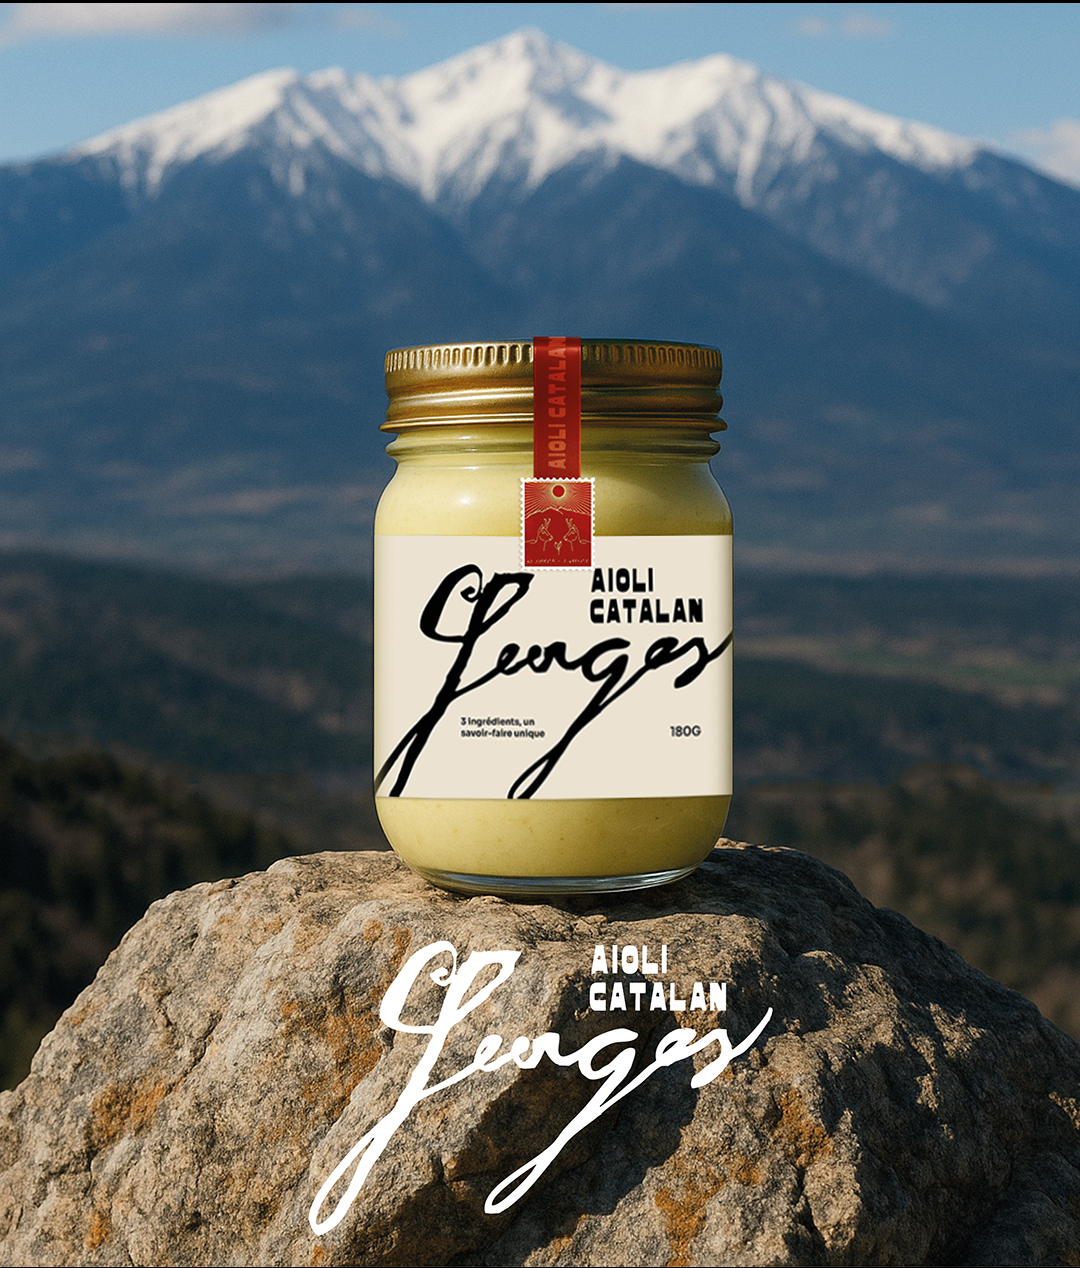
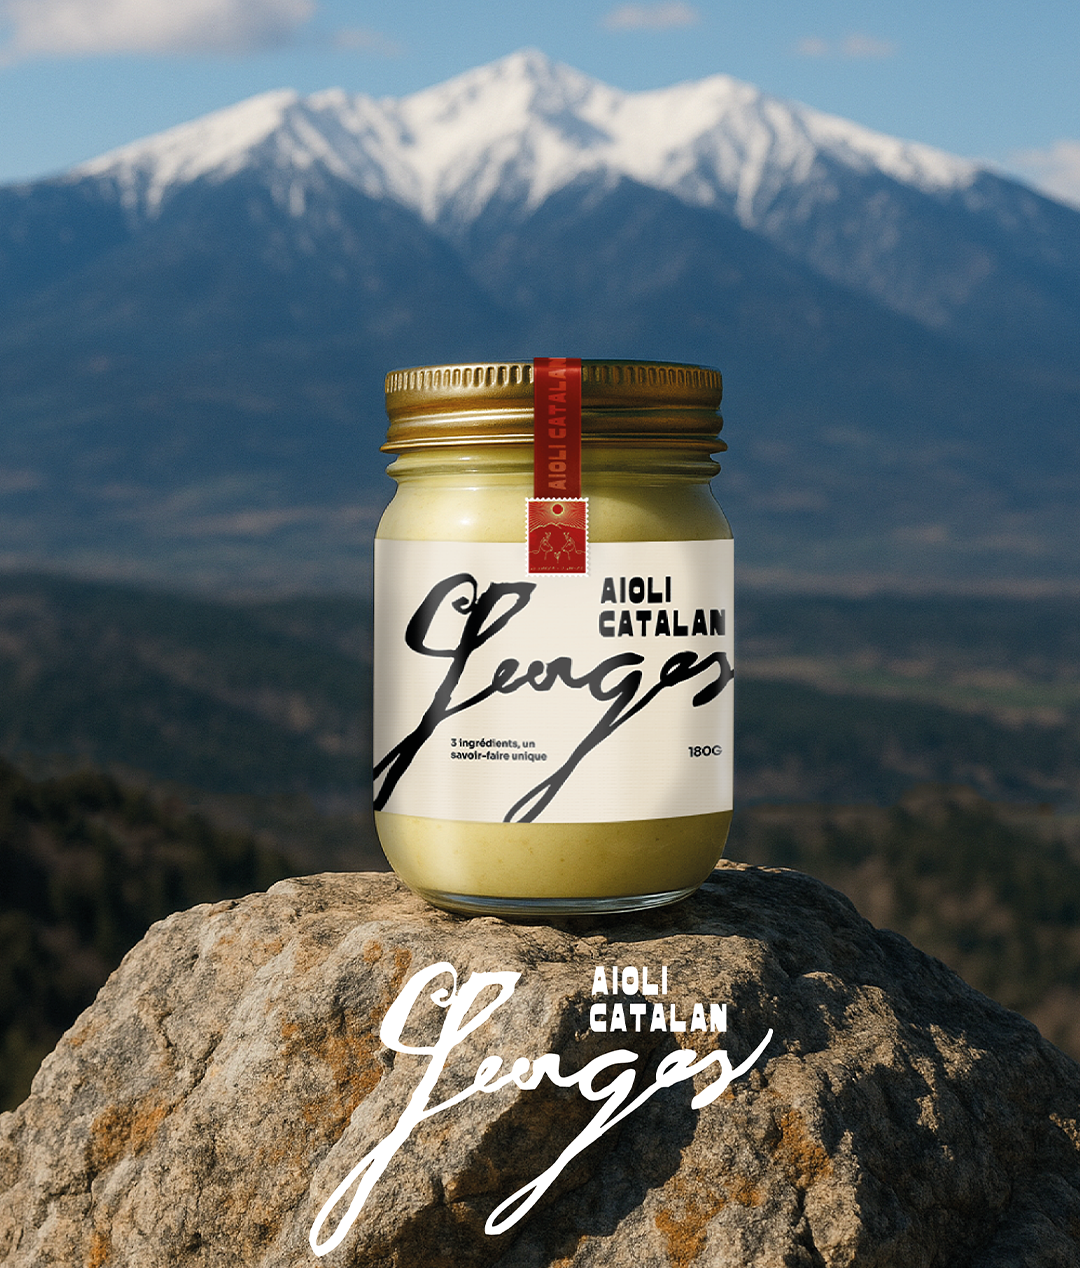
txts

diff --git a/app/projet/[id]/page.tsx b/app/projet/[id]/page.tsx
@@ -99,7 +99,7 @@ function Projet() {
         ],
         onClick: ['https://www.georges-aioli.fr', '_blank'],
         besoins:[
-          ["Le projet avait besoin d’un récit visuel fort, capable de porter à la fois une légende ancienne et une identité contemporaine. Il fallait ancrer le produit dans un imaginaire sacré, mais accessible, en respectant l’intimité d’une fabrication artisanale et la force d’un terroir. L’emballage devait être à la hauteur de ce double héritage : celui d’un savoir oublié et d’un goût intemporel. Enfin, le tout devait s’inscrire dans un langage de marque sobre, élégant et sincère, pour séduire autant les épicuriens que les rêveurs."],
+          ["Le projet avait besoin d’un récit visuel fort, capable de porter à la fois une légende ancienne et une identité contemporaine. Il fallait ancrer le produit dans un imaginaire sacré, mais accessible, en respectant l’intimité d’une fabrication artisanale et la force d’un terroir. L’emballage devait être à la hauteur de ce double héritage : celui d’un savoir ancestral et d’un goût intemporel. Enfin, le tout devait s’inscrire dans un langage de marque sobre, élégant et sincère, pour séduire autant les épicuriens que les rêveurs."],
           ["The project required a strong visual narrative — one that could carry both an ancient legend and a modern identity. It needed to root the product in a sacred yet accessible imagination, honouring the intimacy of artisanal making and the strength of its local origins. The packaging had to live up to this dual legacy: forgotten knowledge and timeless flavour. And ultimately, everything needed to align with a brand language that was sober, elegant and sincere — appealing to both epicureans and dreamers."],
         ],
         technologies: ['React', 'After effects', 'Illustrator', 'Ink handdrawing', 'Figma', 'Adobe Creative Suite', 'Express'],
@@ -108,7 +108,7 @@ function Projet() {
   {
     subtitle: ['Approche', 'Approach'],
     text: [
-      "L’approche visuelle s’est inspirée des éléments naturels et de la sobriété monacale. Le pot évoque la pierre brute du Canigou, l’étiquette se fait parchemin. L’identité graphique est minimale mais habitée : une typographie gravée, un dessin discret d’ail sauvage, et une palette réduite aux tons de terre et d’or patiné. Tout évoque la lenteur, la patience, et le sacré du geste. Nous avons conçu l’emballage comme un talisman : modeste en apparence, mais chargé de mémoire.",
+      "L’approche visuelle s’est inspirée des éléments naturels et de la sobriété monacale. Le pot évoque la pierre brute du Canigou, l’étiquette se fait parchemin. L’identité graphique est minimale mais habitée : une typographie gravée, un dessin discret d’ail sauvage, et une palette réduite aux tons de terre et d’or patiné. Tout évoque la lenteur, la patience, et la sacralité du geste. Nous avons conçu l’emballage comme un talisman : modeste en apparence, mais chargé de mémoire.",
       "The visual approach drew from nature’s rawness and monastic simplicity. The jar echoes the rugged stone of Canigou; the label feels like aged parchment. The graphic identity is minimal yet alive: engraved typography, a subtle drawing of wild garlic, and a muted palette of earth and weathered gold. Every detail speaks of slowness, patience, and sacred ritual. We designed the packaging like a talisman: modest on the surface, yet rich with legacy."
     ],
     image: '/projets/georges/georgesaioli-poster-rochercitation.png',
@@ -117,10 +117,10 @@ function Projet() {
     subtitle: ['Créer une légende autour de ta mémoire', 'To create a tale from your memory.'],
     
     text: [
-      "Né d’une légende enracinée au sommet du Canigou, l’aïoli Georges incarne plus qu’un simple condiment : il est la mémoire vivante d’un savoir ancien, transmis par un ermite solitaire et sage. Chaque pot contient la puissance des éléments, le parfum de l’ail sauvage, et la patience du geste artisanal. Ce packaging sobre et authentique rend hommage à cette histoire : celle d’un homme, d’une montagne, et d’une promesse. Plus qu’une sauce : l’âme du Canigou.",
-      "Born from a legend rooted at the summit of Mount Canigou, Georges aïoli is more than a sauce — it's the living memory of an ancient craft, passed down by a solitary and wise hermit. Each jar holds the strength of the mountains, the scent of wild garlic, and the patience of a hand-forged ritual. This simple, authentic packaging pays tribute to that story — of a man, a mountain, and a promise. More than a sauce: the soul of Canigou."
+      "Né d’une légende enracinée au sommet du Canigou, l’aïoli Georges incarne bien plus qu’un simple condiment : il est la mémoire vivante d’un savoir ancien, celui de la recette transmise par feu mon grand-père. Dans le désir d’honorer sa mémoire à travers un projet à partager — pour continuer de le faire vivre dans le présent — j’ai imaginé une légende autour de son nom : Georges, l’ermite catalan. Cette histoire se traduit graphiquement par la création d’un logotype inspiré de sa signature, auquel s’ajoute une typographie des années 50 pour le nom AIOLI CATALAN, ancrant visuellement la recette dans l’époque et l’héritage de mon grand-père. Le timbre, apposé sur le couvercle tel un sceau, complète l’ensemble. On y retrouve le rouge du drapeau catalan, les coordonnées GPS du sommet du Canigou, ses lignes de crêtes, et deux izards sauvages — gardiens silencieux de cette terre. Le timbre, c’est l’invitation au voyage. Le sceau d’une promesse.",
+      "Born from a legend rooted at the summit of Mount Canigou, aïoli Georges is much more than a simple condiment: it is the living memory of ancestral knowledge, the recipe passed down from my late grandfather. Driven by the desire to honour his memory through a shared project — to keep his presence alive in the present — I created a legend around his name: Georges, the Catalan hermit. This story is expressed visually through the creation of a logotype inspired by his signature, complemented by a 1950s-style typeface for the name AIOLI CATALAN, grounding the recipe in the era and heritage of my grandfather. A stamp, placed on the lid like a seal, completes the design. It features the red of the Catalan flag, the GPS coordinates of Mount Canigou’s summit, its ridgelines, and two wild izards — silent guardians of this land. The stamp is an invitation to travel. The seal of a promise."
     ],
-    image: '/projets/georges/georges-signature.png',
+    image: '/projets/georges/georges-signature-timbre.png',
   },
   {
     subtitle: ["Georges & la légende de l'aïoli Catalan", "Georges and the legend of catalan aioli"],
@@ -134,8 +134,8 @@ function Projet() {
         
 ],
         sectionsImg: [
-          ['/projets/georges/etiquette-pot.jpg','/projets/georges/boite-georges.jpg','georges-boitelivraison.png'],
-          ['/projets/georges/etiquette-pot.jpg','/projets/georges/boite-georges.jpg','georges-boitelivraison.png'],
+          ['/projets/georges/etiquette-pot.jpg','/projets/georges/boite-georges.jpg','/projets/georges/georges-boitelivraison.png'],
+          ['/projets/georges/etiquette-pot.jpg','/projets/georges/boite-georges.jpg','/projets/georges/georges-boitelivraison.png'],
         ],
 },
 

diff --git a/app/logo/page.tsx b/app/logo/page.tsx
@@ -43,7 +43,18 @@ const Logo = () => {
   deroule: ['flex','Votre projet',"Chaque projet est unique, tout comme vous. C’est pourquoi je vous accompagne à chaque étape pour créer une solution sur mesure, en accord avec vos besoins.","Juste une mise au point","Nous discutons de votre projet et établissons ensemble une stratégie. Selon vos besoins, nous définissons les services nécessaires. Chaque devis est conçu sur mesure.","L’aventure commence","Je vous envoie un devis détaillant l’ensemble des prestations ainsi que les délais de réalisation. Une date de livraison est fixée.","Tada !","C’est le jour où vous recevez votre premier livrable. Vous avez alors la possibilité de demander deux modifications (gratuites)."],
   citation: 'Pour un design qui vous ressemble.',
   form: ["Racontons",'votre','histoire','Prénom & Nom','Email','Entreprise/Projet','Secteur d’activité','Quel type de projet envisagez-vous ?','Site web', 'Identité visuelle', 'Autre (précisez)','Parlez-moi de votre projet',"Collaborons pour faire grandir votre activité 🌱. Une idée, une question, une envie forte de vous lancer ? Je suis à l'écoute.","Envoyer"],
-  words: ['local artisans', 'organic farmers', 'plant-based chefs', 'ethical producers', 'slow food brands','hand-made brands', 'holistic hospitality venues','conscious restaurants', 'eco-conscious cafés', 'holistic guest experiences'],      
+words: [
+  'artisans locaux',
+  'agriculteurs biologiques',
+  'chefs végétaux',
+  'producteurs éthiques',
+  'marques slow food',
+  'marques artisanales',
+  'lieux d’hospitalité holistique',
+  'restaurants engagés',
+  'cafés éco-conscients',
+  'expériences holistiques pour les invités'
+  ],  
   ml: [
     "Mentions légales",
     "À propos de Maison Bleu Iris",
